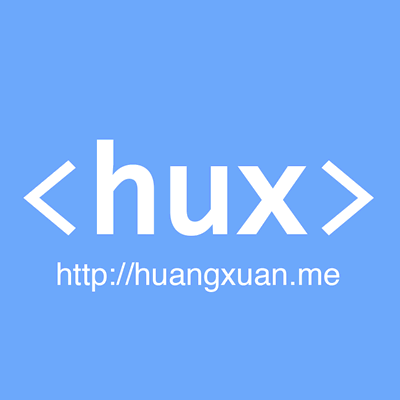
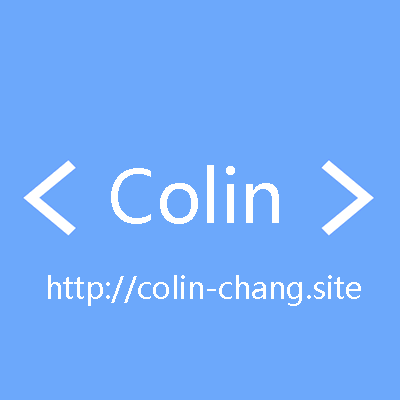
基本信息修改

Changed region(s): [[0.24, 0.33, 0.78, 0.6], [0.12, 0.66, 0.9, 0.78]]

diff --git a/_includes/footer.html b/_includes/footer.html
@@ -71,13 +71,6 @@
                 </ul>
                 <p class="copyright text-muted">
                     Copyright &copy; {{ site.title }} {{ site.time | date: '%Y' }}
-                    <br>
-                    Theme by <a href="http://huangxuan.me">Hux</a> |
-                    <iframe
-                        style="margin-left: 2px; margin-bottom:-5px;"
-                        frameborder="0" scrolling="0" width="91px" height="20px"
-                        src="https://ghbtns.com/github-btn.html?user=huxpro&repo=huxpro.github.io&type=star&count=true" >
-                    </iframe>
                 </p>
             </div>
         </div>
